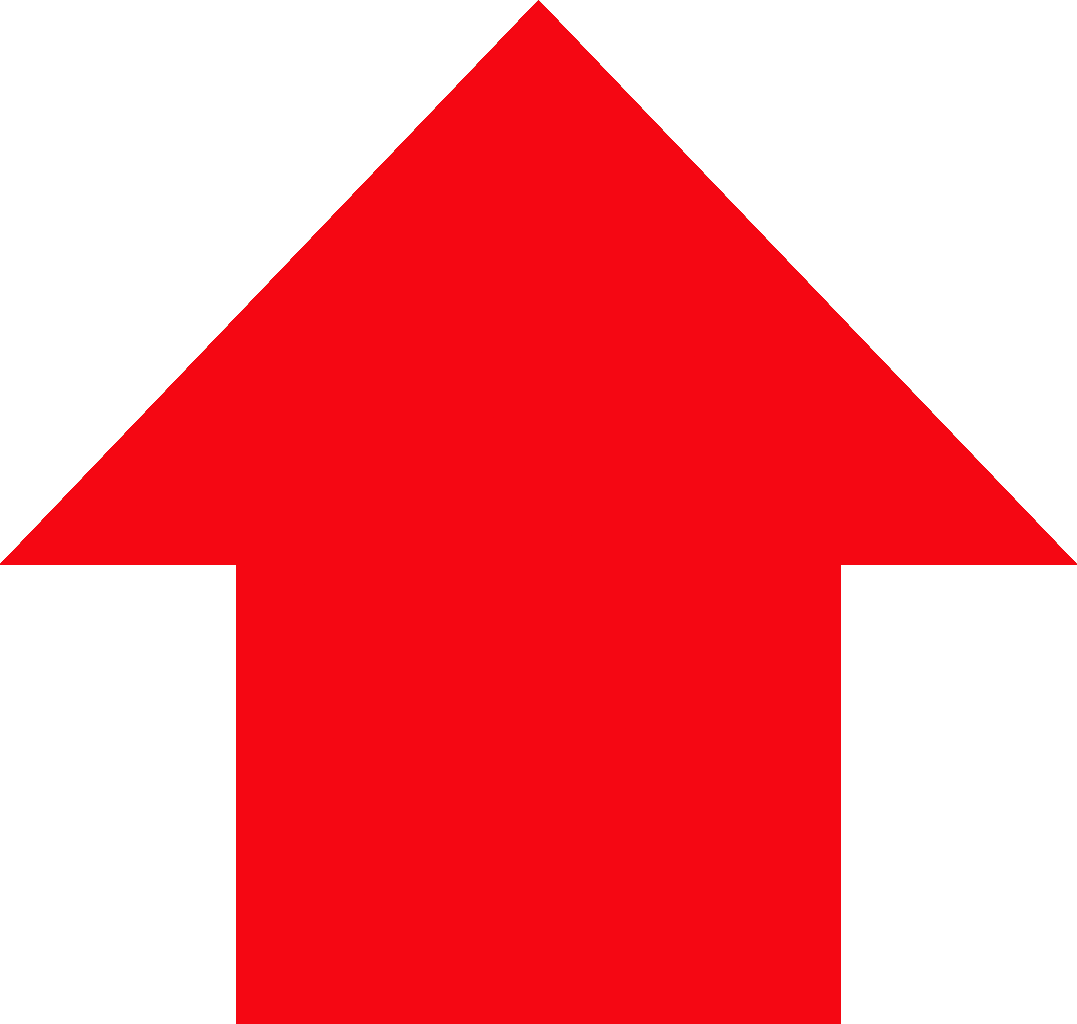
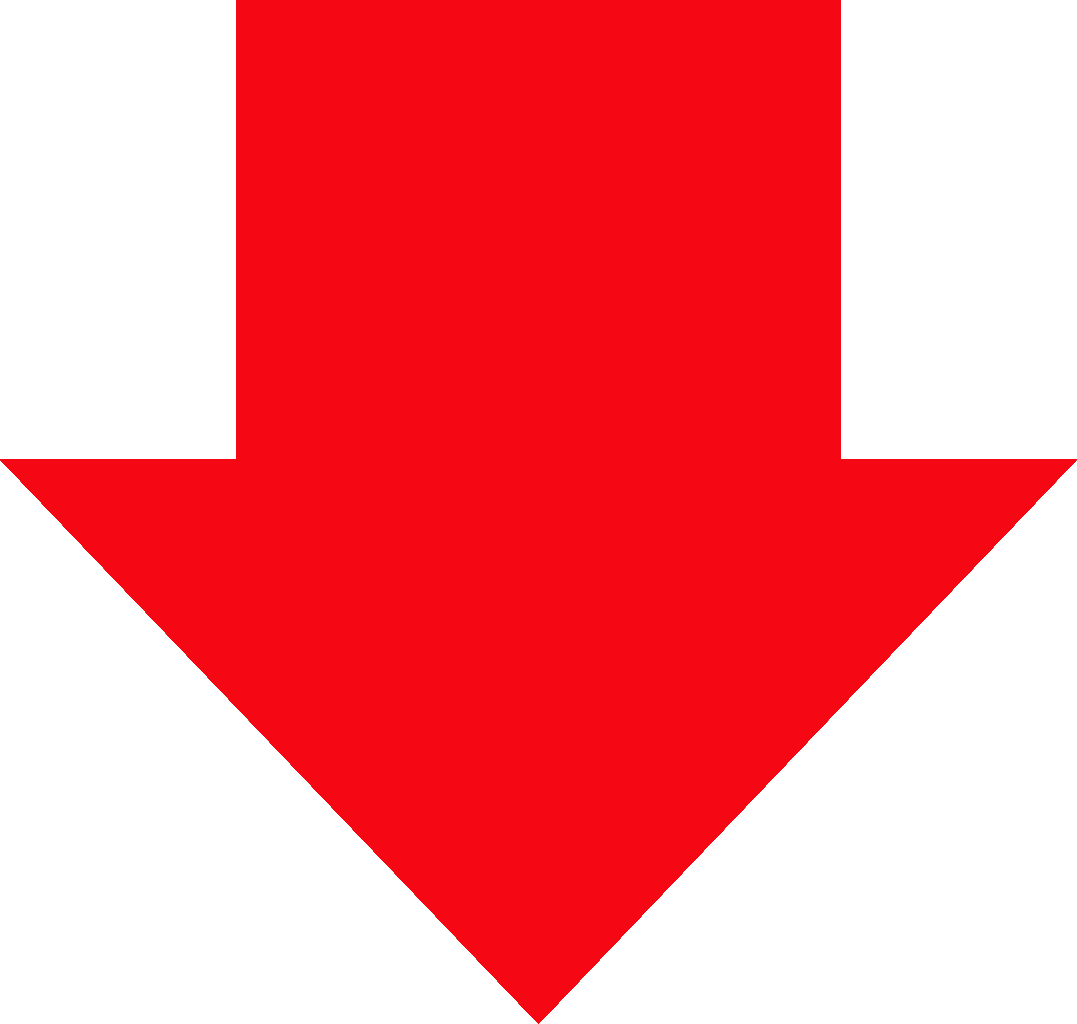
added button images to handlebars and css

Changed region(s): [[0.0, 0.0, 1.0, 1.0]]

diff --git a/public/styles/style.css b/public/styles/style.css
@@ -175,23 +175,16 @@ a:link {
 
 
 button {
-    width: 100px;
-    appearance: auto;
-    text-rendering: auto;
-    color: var(--wheat);
-    text-indent: 1px;
-    display: inline-flex;
+    width: 25px;
+    height: 25px;
+    display: flex;
     text-align: center;
     cursor: pointer;
-    box-sizing: border-box;
-    background-color: var(--gray);
     margin: .5em;
-    padding: 3px 10px;
-    border-width: 2px;
-    border-style: outset;
-    border-radius: 5px;
+    align-content:center;
     justify-content: center;
-
+    background-color: transparent;
+    border:0
 }
 
 input#email-login {
@@ -306,11 +299,11 @@ div {
     /* Black w/ opacity */
 }
 /* like buttons */
-/* .post-like-button, .comment-like-button{
-    background-image: url(../images/up.png);
-    width: 30px;
-    height:30px;
-} */
+
+.upvote, .downvote{
+    width:25px;
+    height:25px;
+}
 /* end like buttons */
 
 /* Comment Form */
@@ -324,7 +317,6 @@ div {
 .comment-form textarea{
     width:600px;
 }
-
 
 
 
@@ -397,13 +389,12 @@ div {
     color: black;
     text-decoration: none;
     cursor: pointer;
-
+}
 /*Styling for post and comment view*/
   .comments {
     position: relative;
     padding: 10px;
   }
-
   .comment {
     padding: 10px;
     padding: 10px;
@@ -418,8 +409,18 @@ div {
   #post-title {
     font-size: xx-large;
   }
-
+  .votebuttons{
+    display:flex;
+    flex-direction:column;
+    align-items:center;
+    justify-items:center;
+  }
+.score{
+    font-size:15px;
+}
   .post {
+    display:flex;
+    flex-direction:row;
     border: black solid 2px;
     margin-top: 30px;
   }
